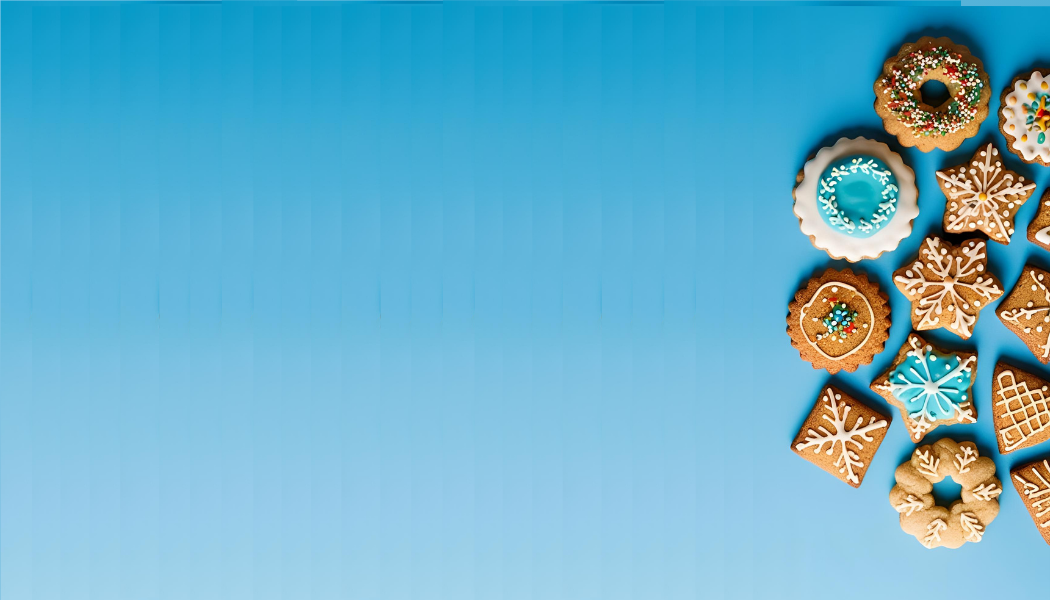
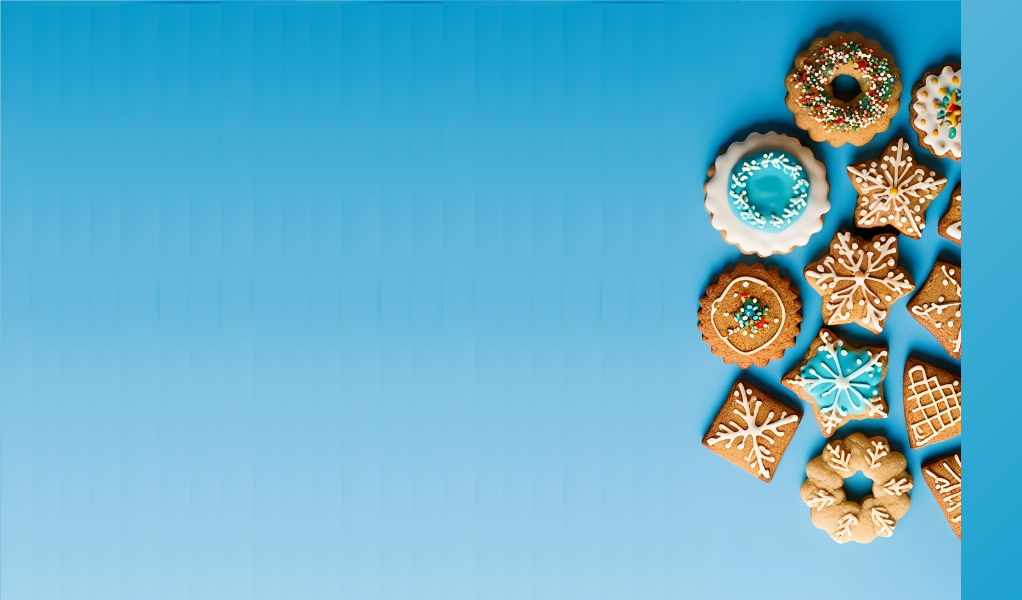
up

Changed region(s): [[0.6673, 0.0, 1.0, 1.0]]

diff --git a/styles/style.css b/styles/style.css
@@ -163,7 +163,7 @@ ul {
   background-size: cover; /*Cover: ele adapta a imagem em todo, de acordo com o tamanho do navegador*/
 }
 #img2 {
-  background: url(/imagens/fundoAzul2.png) center no-repeat fixed;
+  background: url(/imagens/fundoAzul.png) center no-repeat fixed;
   background-size: cover; /*Cover: ele adapta a imagem em todo, de acordo com o tamanho do navegador*/
   min-width: 300px;
   max-width: 1000px;
@@ -313,6 +313,10 @@ footer p a:hover {
   .color1 {
     line-height: 1.1em;
     margin-top: 15px;
+  }
+
+  #img2 {
+    background: url(/imagens/fundoAzul2.png) center no-repeat fixed;
   }
 
   .text {
